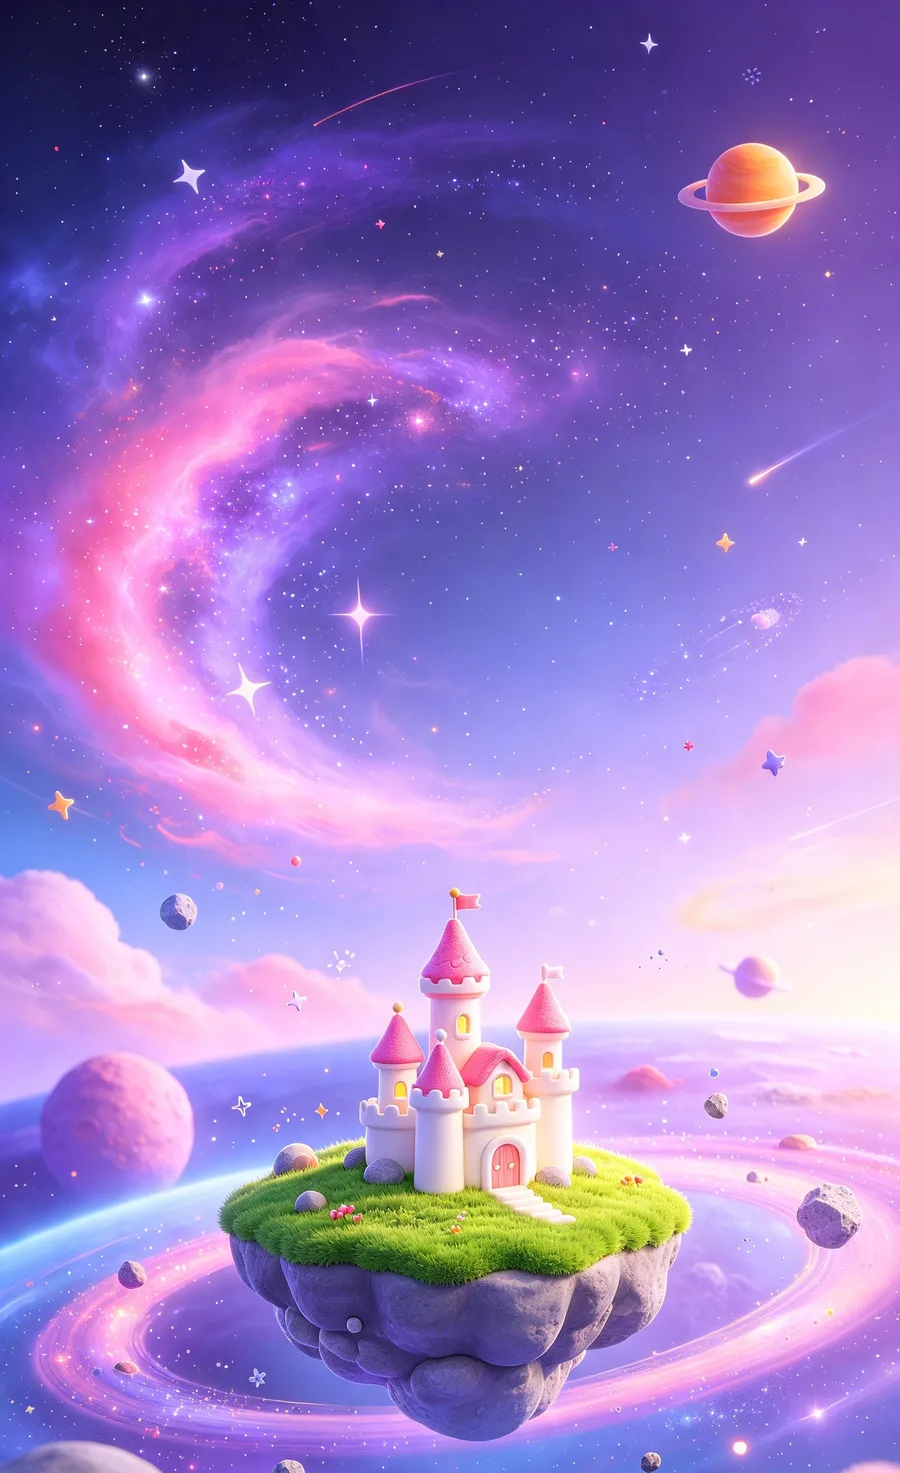
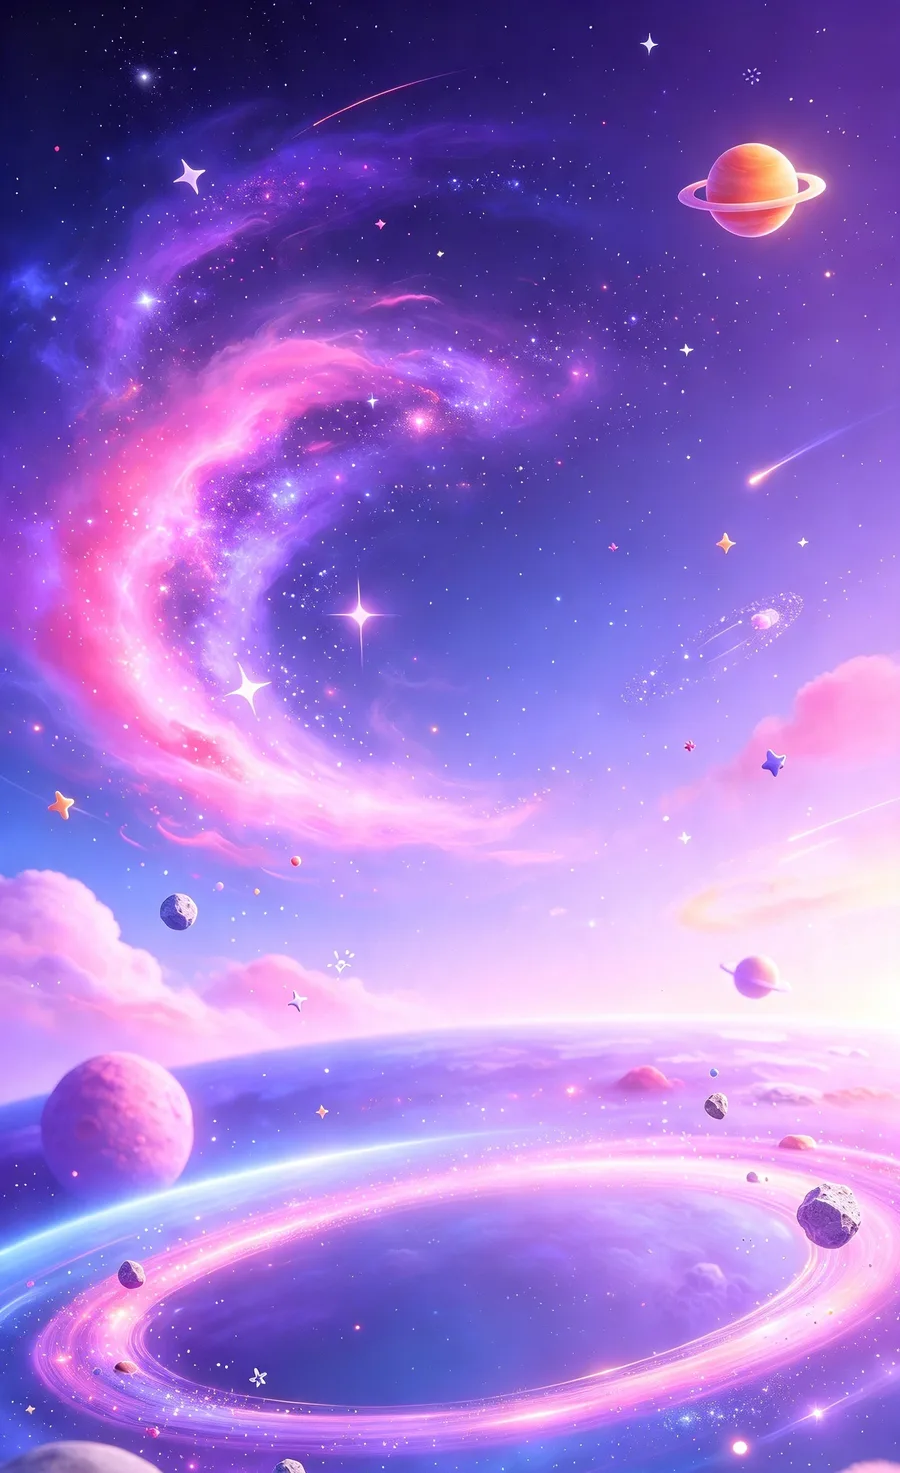
公開桌入口背景換冇城堡版本
Claude-Session: https://claude.ai/code/session_01E2utfFQBUZUAHLnSXfgdjb

diff --git a/public/sw.js b/public/sw.js
@@ -1,5 +1,5 @@
 // 大富翁 service worker: keeps the app shell and art so the board opens without a network.
-const CACHE = "dafuweng-v158";
+const CACHE = "dafuweng-v159";
 const SHELL = [
   "/",
   "/manifest.webmanifest",
